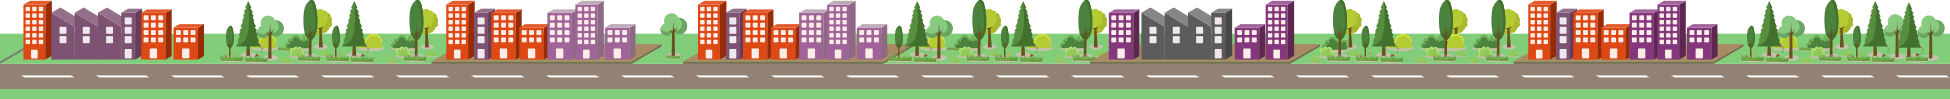
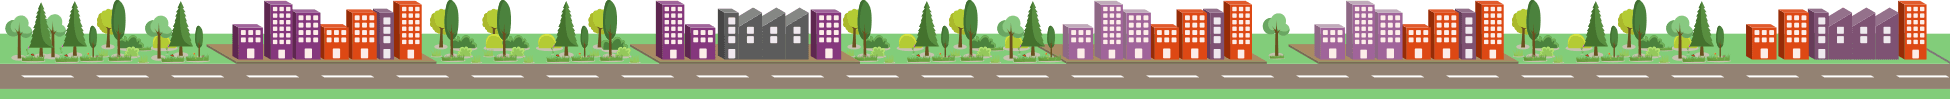
Lista Servicios Responsive

diff --git a/nosotros.html b/nosotros.html
@@ -123,13 +123,13 @@
   </header>
   <main class=main>
     <div class="contenedor">
-      <div class="quehacemos contenido" id="quehacemos">
+      <div class="quehacemos contenido contenidoNosotros" id="quehacemos">
         <h2>¿Qué hacemos?</h2>
         <p>En IAMSA Solutions transformamos su inversión en ahorro y resultados. Brindamos consultoría y acompañamiento personalizado de calidad en temas ambientales, de sostenibilidad e innovación ofreciendo de manera gratuita el diagnóstico de la necesidad
           de su empresa. Llevamos la innovación y el desarrollo sostenible a su compañía haciendo visibles iniciativas que como la suya están cambiando el mundo.
         </p>
       </div>
-      <div class="comolohacemos contenido" id="comolohacemos">
+      <div class="comolohacemos contenido contenidoNosotros" id="comolohacemos">
         <h2>¿Cómo lo hacemos?</h2>
         <p>A través de: </p>
         <ul>
@@ -141,19 +141,19 @@
           dudamos en considerar el éxito de ellos, como nuestro. En IAMSA construimos a través de nuestro trabajo, un mundo mejor.”
         </p>
       </div>
-      <div class="quienessomos contenido" id="quienessomos">
+      <div class="quienessomos contenido contenidoNosotros" id="quienessomos">
         <h2>¿Quienes somos?</h2>
         <p>Somos una empresa comprometida con el desarrollo sostenible, conformada por un equipo multidisciplinar de calidad en áreas de ingeniería y gerencia de innovación, cuyo objetivo es brindar las mejores alternativas en problemáticas ambientales y
           de sostenibilidad a nuestros clientes.
         </p>
       </div>
-      <div class="mision contenido">
+      <div class="mision contenido contenidoNosotros">
         <h2>Misión</h2>
         <p>Asesorar y brindar a empresas y particulares las herramientas, tanto en el al ámbito ambiental como sanitario, promoviendo y facilitando el desarrollo económico sostenible, tomando como marco de referencia: La normatividad vigente, los más altos
           estándares de calidad y la responsabilidad social.
         </p>
       </div>
-      <div class="vision contenido">
+      <div class="vision contenido contenidoNosotros">
         <h2>Visión</h2>
         <p>Convertirnos en una de las empresas consultoras más grandes de Colombia, con un equipo de trabajo profesional, orientado a la mejora continua, por medio del cual, empresas y particulares adquieren la capacidad de generar un desarrollo económico
           sostenible y socialmente responsable, aportándole lo mejor a nuestro país.

diff --git a/css/index.css b/css/index.css
@@ -80,6 +80,7 @@ h2 {
   display: grid;
   grid-template-columns: repeat(5, 1fr);
   width: 100%;
+  padding: 0;
 }
 
 .menu a {
@@ -156,6 +157,7 @@ h2 {
   display: none;
   position: absolute;
   top: 100%;
+  padding: 0;
 }
 
 .subMenuServicios {
@@ -207,6 +209,7 @@ h2 {
   align-items: center;
   justify-content: space-around;
   margin-top: 50px;
+  padding: 10px;
 }
 
 .mainIndex {
@@ -277,6 +280,7 @@ h2 {
 
 .listaServicios span {
   font-weight: bold;
+  text-align: center;
 }
 
 .listaServicios a {
@@ -289,6 +293,21 @@ h2 {
   width: 100%;
   margin-top: 10px;
   box-sizing: border-box;
+}
+
+/* Nosotros ________________________________________________________________________________*/
+
+.contenidoNosotros {
+  background: rgba(68, 150, 49, 0.8);
+  box-shadow: 3px 3px 3px gray;
+  margin-bottom: 10px;
+  color: white;
+  padding: 10px 20px;
+}
+
+.contenidoNosotros h2 {
+  color: white;
+  margin-bottom: 5px;
 }
 
 /* animacion ________________________________________________________________________________*/
@@ -402,6 +421,14 @@ h2 {
 
 /* medias ________________________________________________________________________________*/
 
+@media screen and (max-width:768px) {
+  .listaServicios {
+    grid-template-columns: auto auto;
+    grid-template-rows: repeat(3, auto);
+    margin-top: 5px;
+  }
+}
+
 @media screen and (max-width:580px) {
   .menu>li>a {
     flex-direction: column;
@@ -425,6 +452,11 @@ h2 {
   }
   .portada h1 {
     font-size: 1.5em;
+  }
+  .listaServicios {
+    grid-template-columns: auto;
+    grid-template-rows: repeat(5, auto);
+    margin-top: 5px;
   }
 }
 

diff --git a/servicios.html b/servicios.html
@@ -174,7 +174,7 @@
   </main>
   <footer class=footer>
     <div class=animacion>
-      <div class="fondoMovil arboles"></div>
+      <div class="fondoMovil edificios"></div>
       <div class=objetoFijo></div>
     </div>
     <div class="subFooter">
